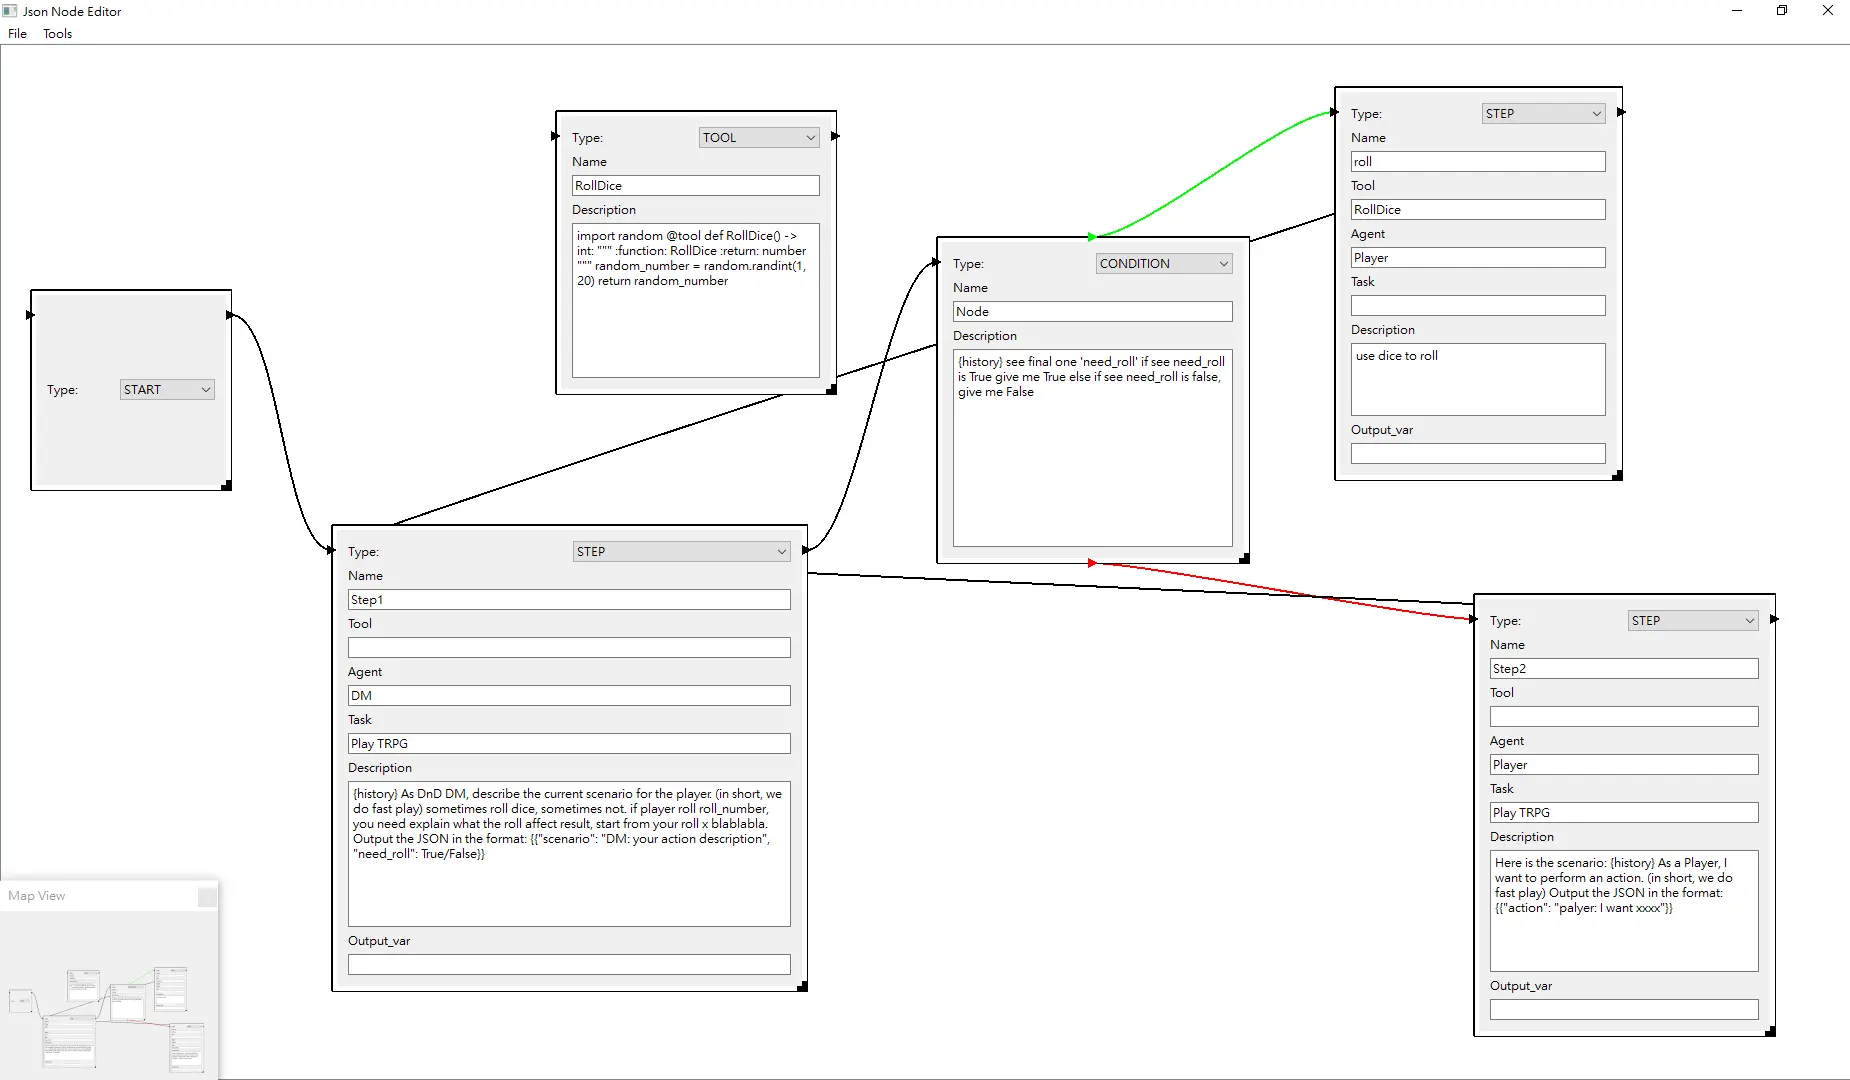
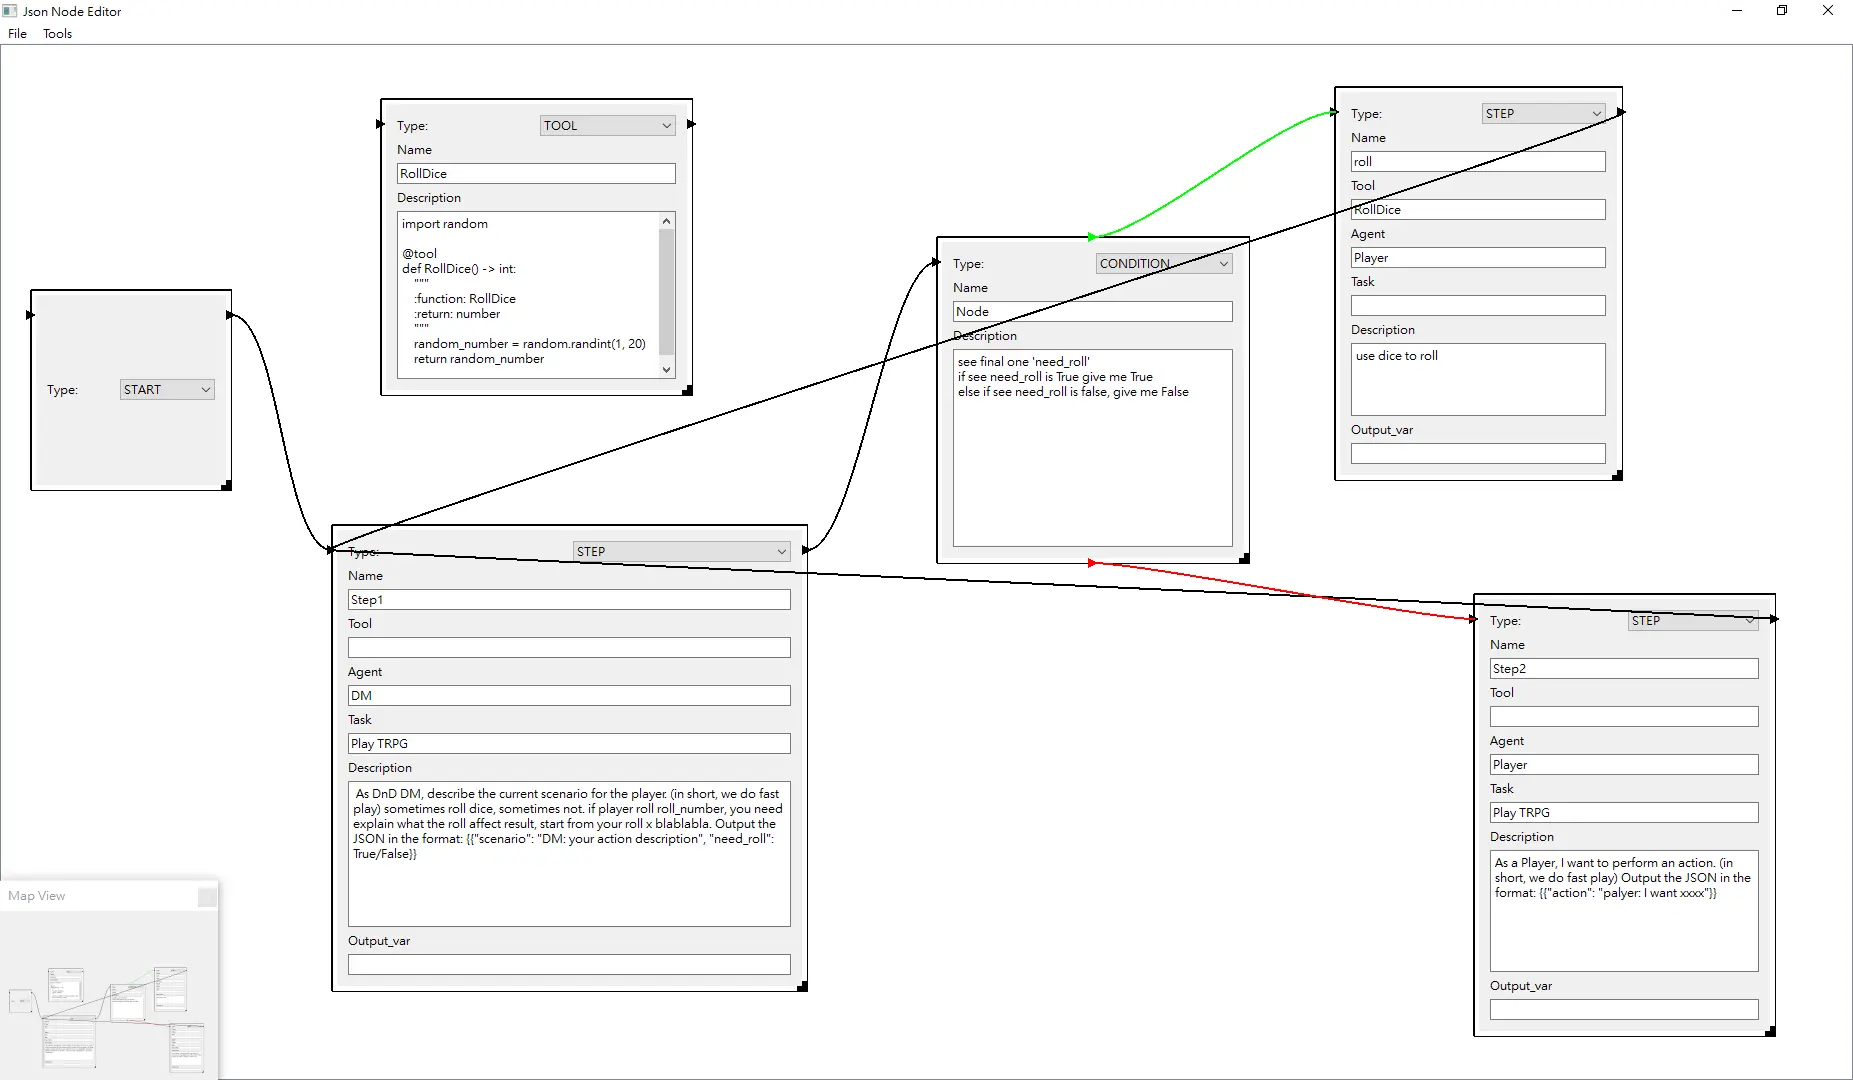
fix

diff --git a/src/NodeLayout.py b/src/NodeLayout.py
@@ -17,7 +17,12 @@ class Slot:
 
     def create_widgets(self):
         self.label = QLabel(self.data_attr.capitalize())
-        self.edit = self.widget_class(getattr(self.parent.data, self.data_attr))
+        self.edit = self.widget_class()
+        # Set the initial text without formatting
+        if isinstance(self.edit, QTextEdit):
+            self.edit.setPlainText(getattr(self.parent.data, self.data_attr))
+        else:
+            self.edit.setText(getattr(self.parent.data, self.data_attr))
 
     def add_to_layout(self):
         self.layout.addWidget(self.label)
@@ -149,3 +154,4 @@ class NodeLayout(QGraphicsItem):
         # Method to update the parent node
         self.parent.prepareGeometryChange()
         self.parent.update()
+

diff --git a/CHANGELOG.md b/CHANGELOG.md
@@ -7,6 +7,12 @@ and this project adheres to [Semantic Versioning](https://semver.org/spec/v2.0.0
 
 
 ## [0.5.1] - 2024-07-03
+### Fixed
+- QTextEdit wrong multi lines
+- QTextEdit convert to pure text
+
+
+## [0.5.1] - 2024-07-03
 ### Feature
 - add license
 
